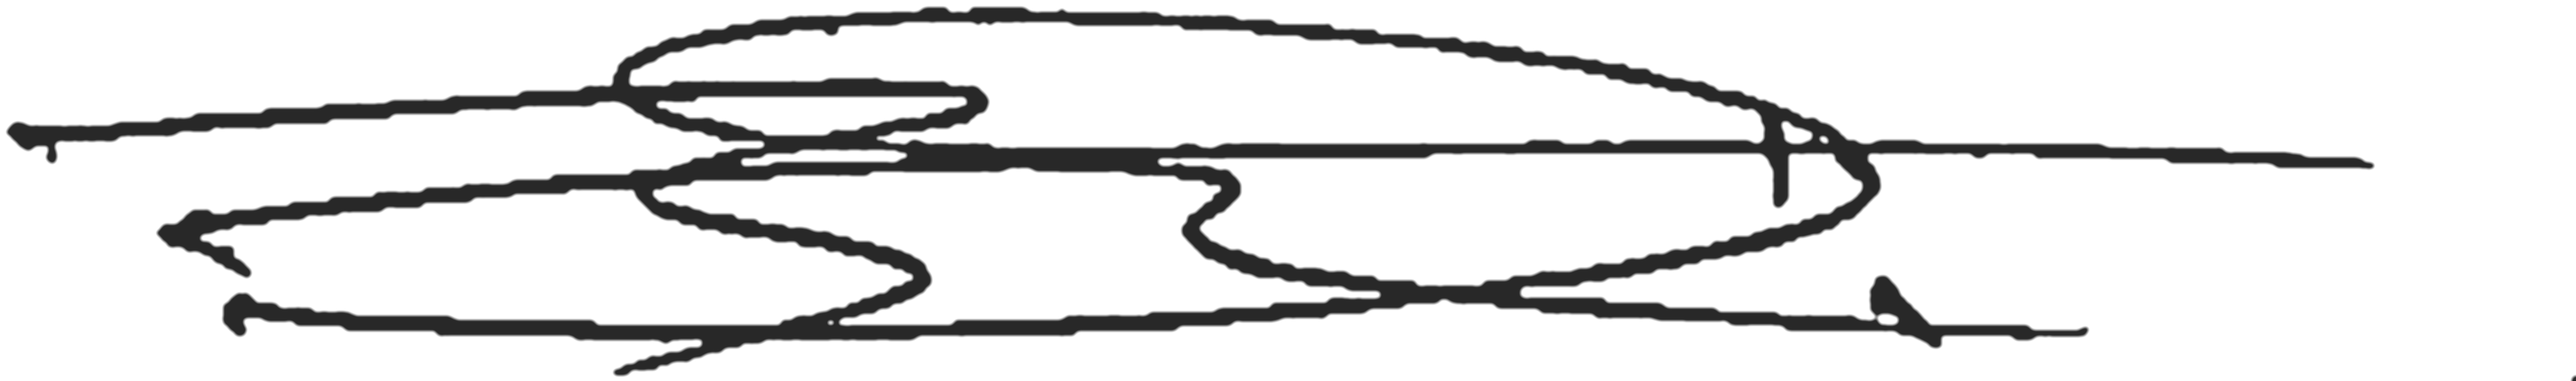
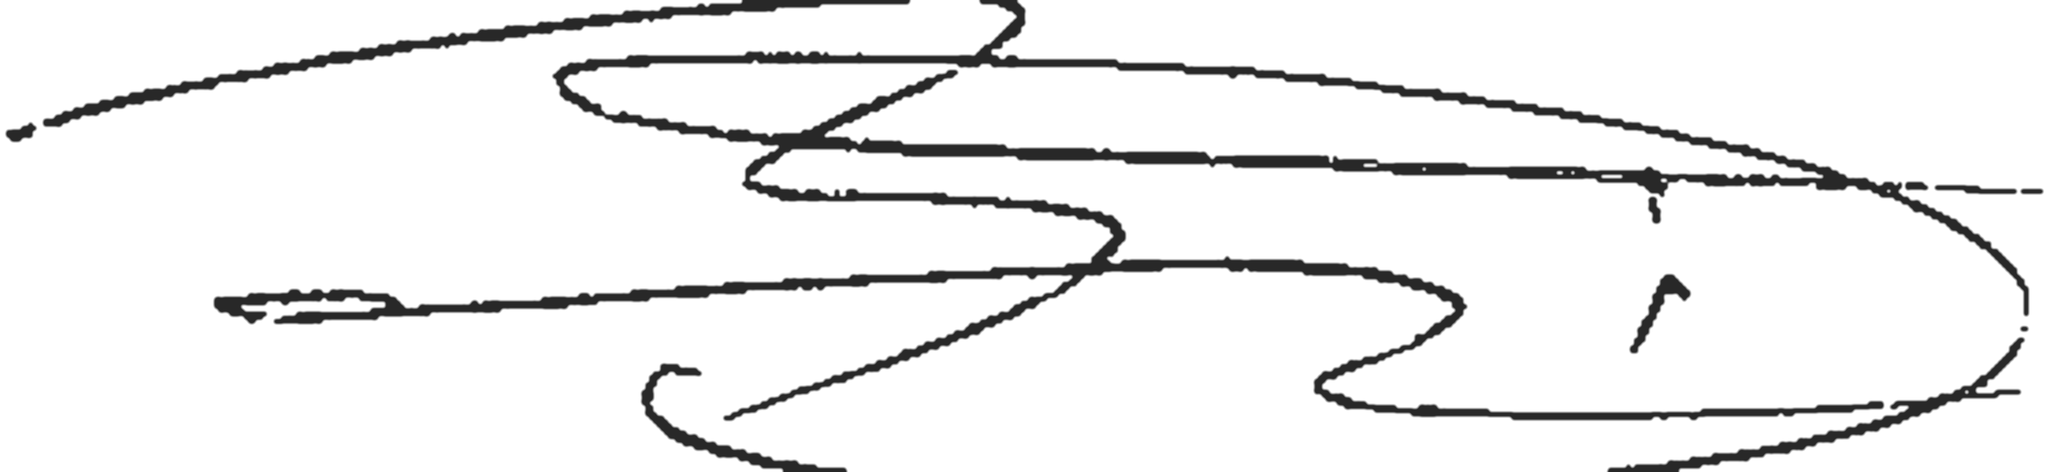
Use the August 26 wet-signature crop as the canonical stamp
Replace the photographed loops PNG with a charcoal-on-transparent crop of
the page-1 wet mark. Archive the photo stamp beside it. The originating
scan is discarded and is not in the repository. Already-filed PDFs are
not restamped; new generators pick up the same SIGNATURE_PATH.

Changed region(s): [[0.0, 0.0, 1.0, 1.0], [0.7765, 0.5793, 0.8386, 0.7317], [0.9939, 0.9756, 1.0, 1.0]]

diff --git a/internal/scripts/extract-signature-scan.py b/internal/scripts/extract-signature-scan.py
@@ -1,0 +1,148 @@
+#!/usr/bin/env python3
+"""Extract the page-1 wet signature into the canonical transparent PNG.
+
+Source is a tight crop of the handwritten mark only (no form, no fingerprint,
+no caption). The originating scan is discarded and is not in this repository.
+
+  1. thresholds ink
+  2. drops full-width form-rule slivers
+  3. upscales 8× (LANCZOS) so the PDF stamp downsamples instead of upsamples
+  4. closes tiny scan gaps, light erode, Gaussian-blur then re-threshold
+  5. writes dark-charcoal-on-transparent RGBA (not pure #000)
+
+Does not restamp any already-filed PDF.
+
+    python3 internal/scripts/extract-signature-scan.py
+"""
+from __future__ import annotations
+
+import shutil
+from pathlib import Path
+
+import numpy as np
+from PIL import Image, ImageFilter
+
+REPO = Path(__file__).resolve().parents[2]
+SRC_JPG = REPO / "internal/assets/signature/brendan-newanforbi-signature-source.jpg"
+OUT_PNG = REPO / "internal/assets/signature/brendan-newanforbi-signature.png"
+ARCHIVE_PNG = (
+    REPO / "internal/assets/signature/brendan-newanforbi-signature-v2-photo-loops.png"
+)
+ARCHIVE_SRC = (
+    REPO / "internal/assets/signature/brendan-newanforbi-signature-source-v2-photo.jpg"
+)
+
+INK_MAX = 175
+SCALE = 8
+CLOSE_SIZE = 3
+ERODE_SIZE = 3
+BLUR = 2.4
+CORE_T = 208
+ALPHA_FLOOR = 18
+INK_RGB = 40
+TRIM_PAD = 10
+RULE_WIDTH_FRAC = 0.55
+RULE_MAX_HEIGHT = 6
+
+
+def _archive_previous() -> None:
+    if OUT_PNG.is_file() and not ARCHIVE_PNG.is_file():
+        shutil.copy2(OUT_PNG, ARCHIVE_PNG)
+    src_v2 = REPO / "internal/assets/signature/brendan-newanforbi-signature-source.jpg"
+    # Archive the photographed source if this file is still that photo
+    # (short/wide JPEG from process-signature-photo.py). Skip if already the
+    # scan crop.
+    if src_v2.is_file() and not ARCHIVE_SRC.is_file():
+        im = Image.open(src_v2)
+        if im.size == (520, 214):
+            shutil.copy2(src_v2, ARCHIVE_SRC)
+
+
+def _drop_form_rules(ink: np.ndarray) -> np.ndarray:
+    """Drop short, near-full-width bars (printed form rules), keep handwriting."""
+    h, w = ink.shape
+    out = ink.copy()
+    min_w = int(w * RULE_WIDTH_FRAC)
+    visited = np.zeros_like(ink, dtype=bool)
+    ys, xs = np.where(ink)
+    for y, x in zip(ys, xs):
+        if visited[y, x]:
+            continue
+        # flood a 4-connected component
+        stack = [(y, x)]
+        cells = []
+        visited[y, x] = True
+        while stack:
+            cy, cx = stack.pop()
+            cells.append((cy, cx))
+            for ny, nx in ((cy - 1, cx), (cy + 1, cx), (cy, cx - 1), (cy, cx + 1)):
+                if 0 <= ny < h and 0 <= nx < w and ink[ny, nx] and not visited[ny, nx]:
+                    visited[ny, nx] = True
+                    stack.append((ny, nx))
+        ys_c = [p[0] for p in cells]
+        xs_c = [p[1] for p in cells]
+        height = max(ys_c) - min(ys_c) + 1
+        width = max(xs_c) - min(xs_c) + 1
+        if width >= min_w and height <= RULE_MAX_HEIGHT:
+            for cy, cx in cells:
+                out[cy, cx] = False
+    return out
+
+
+def _to_rgba(alpha_img: Image.Image) -> Image.Image:
+    a = np.array(alpha_img, dtype=np.float32)
+    solid = a >= CORE_T
+    fringe = np.clip((a - ALPHA_FLOOR) / (CORE_T - ALPHA_FLOOR), 0.0, 1.0)
+    alpha = np.where(solid, 1.0, fringe)
+    alpha_u8 = (alpha * 255.0).astype(np.uint8)
+    ys, xs = np.where(alpha_u8 > 8)
+    if ys.size == 0:
+        raise SystemExit("no ink after threshold")
+    y0 = max(0, int(ys.min()) - TRIM_PAD)
+    y1 = min(alpha_u8.shape[0], int(ys.max()) + TRIM_PAD + 1)
+    x0 = max(0, int(xs.min()) - TRIM_PAD)
+    x1 = min(alpha_u8.shape[1], int(xs.max()) + TRIM_PAD + 1)
+    alpha_u8 = alpha_u8[y0:y1, x0:x1]
+    rgba = np.zeros((alpha_u8.shape[0], alpha_u8.shape[1], 4), dtype=np.uint8)
+    rgba[..., 0] = INK_RGB
+    rgba[..., 1] = INK_RGB
+    rgba[..., 2] = INK_RGB
+    rgba[..., 3] = alpha_u8
+    return Image.fromarray(rgba, "RGBA")
+
+
+def main() -> None:
+    if not SRC_JPG.is_file():
+        raise SystemExit(f"Missing signature source crop: {SRC_JPG}")
+    _archive_previous()
+    gray = Image.open(SRC_JPG).convert("L")
+    g = np.array(gray, dtype=np.uint8)
+    ink = _drop_form_rules(g < INK_MAX)
+    ys, xs = np.where(ink)
+    if ys.size == 0:
+        raise SystemExit("no ink in source crop")
+    y0 = max(0, int(ys.min()) - 4)
+    y1 = min(ink.shape[0], int(ys.max()) + 5)
+    x0 = max(0, int(xs.min()) - 4)
+    x1 = min(ink.shape[1], int(xs.max()) + 5)
+    tight = (~ink[y0:y1, x0:x1]).astype(np.uint8) * 255
+    crop = Image.fromarray(tight, "L")
+    hi = crop.resize(
+        (crop.size[0] * SCALE, crop.size[1] * SCALE), Image.Resampling.LANCZOS
+    )
+    core = Image.fromarray(((np.array(hi) < 185).astype(np.uint8) * 255), "L")
+    closed = core.filter(ImageFilter.MaxFilter(CLOSE_SIZE)).filter(
+        ImageFilter.MinFilter(CLOSE_SIZE)
+    )
+    thinned = closed.filter(ImageFilter.MinFilter(ERODE_SIZE))
+    blurred = thinned.filter(ImageFilter.GaussianBlur(radius=BLUR))
+    rgba = _to_rgba(blurred)
+    rgba.save(OUT_PNG, optimize=True)
+    print(
+        f"wrote {OUT_PNG.relative_to(REPO)} {rgba.size[0]}×{rgba.size[1]}  "
+        f"aspect={rgba.size[1]/rgba.size[0]:.4f}  from crop {crop.size}"
+    )
+
+
+if __name__ == "__main__":
+    main()

diff --git a/internal/scripts/process-signature-photo.py b/internal/scripts/process-signature-photo.py
@@ -1,41 +1,28 @@
 #!/usr/bin/env python3
-"""Clean the photographed signature into the canonical transparent PNG.
+"""Historical: photographed loops mark → archived canonical PNG.
 
-Source is a low-resolution JPEG of the abstract-loops mark (lots of empty
-top canvas, JPEG ringing, thin aliased strokes). This script:
-
-  1. crops to the ink
-  2. upscales 12× (LANCZOS) so the PDF stamp downsamples instead of upsamples
-  3. closes tiny JPEG gaps, then a light erode so the stroke is slightly
-     thinner than a raw threshold of the photo
-  4. Gaussian-blurs then re-thresholds a solid core so 12× stair-steps round
-     off, keeping a short alpha fringe for PDF downsampling
-  5. writes dark-charcoal-on-transparent RGBA (not pure #000)
+Superseded. The live stamp is internal/assets/signature/
+brendan-newanforbi-signature.png, produced by extract-signature-scan.py.
+Running this script must not overwrite that file; it only rebuilds the
+archived photograph at *-v2-photo-loops.png.
 
 Does not restamp any already-filed PDF.
-
-    python3 internal/scripts/process-signature-photo.py
 """
 from __future__ import annotations
 
-import shutil
 from pathlib import Path
 
 import numpy as np
 from PIL import Image, ImageFilter
 
 REPO = Path(__file__).resolve().parents[2]
-SRC_JPG = REPO / "internal/assets/signature/brendan-newanforbi-signature-source.jpg"
-OUT_PNG = REPO / "internal/assets/signature/brendan-newanforbi-signature.png"
-ARCHIVE_PNG = (
-    REPO / "internal/assets/signature/brendan-newanforbi-signature-v1-abstract-loops.png"
+SRC_JPG = (
+    REPO / "internal/assets/signature/brendan-newanforbi-signature-source-v2-photo.jpg"
 )
-
-# Upload that produced this revision (copied into SRC_JPG on first run).
-UPLOAD = Path(
-    "/home/ubuntu/.cursor/projects/workspace/assets/"
-    "01a04771-bab9-7745-9d75-515118915e3c.jpg"
+OUT_PNG = (
+    REPO / "internal/assets/signature/brendan-newanforbi-signature-v2-photo-loops.png"
 )
+CANONICAL_PNG = REPO / "internal/assets/signature/brendan-newanforbi-signature.png"
 
 INK_MAX = 210  # grayscale; below this is treated as ink
 CROP_PAD = 6
@@ -47,20 +34,6 @@ CORE_T = 212  # blur luminance at/above this becomes solid ink
 ALPHA_FLOOR = 22  # below this, treat as background
 INK_RGB = 40  # charcoal, not pure black — dials down visual weight
 TRIM_PAD = 12
-
-
-def _ensure_source() -> None:
-    SRC_JPG.parent.mkdir(parents=True, exist_ok=True)
-    if SRC_JPG.is_file():
-        return
-    if not UPLOAD.is_file():
-        raise SystemExit(f"Missing signature source: {SRC_JPG} and {UPLOAD}")
-    shutil.copy2(UPLOAD, SRC_JPG)
-
-
-def _archive_previous() -> None:
-    if OUT_PNG.is_file() and not ARCHIVE_PNG.is_file():
-        shutil.copy2(OUT_PNG, ARCHIVE_PNG)
 
 
 def _crop_ink(gray: Image.Image) -> Image.Image:
@@ -106,8 +79,10 @@ def _to_rgba(alpha_img: Image.Image) -> Image.Image:
 
 
 def main() -> None:
-    _ensure_source()
-    _archive_previous()
+    if OUT_PNG.resolve() == CANONICAL_PNG.resolve():
+        raise SystemExit("refusing to overwrite the canonical scan stamp")
+    if not SRC_JPG.is_file():
+        raise SystemExit(f"Missing archived photo source: {SRC_JPG}")
     gray = Image.open(SRC_JPG).convert("L")
     crop = _crop_ink(gray)
     hi = crop.resize(

diff --git a/internal/scripts/signature_stamp.py b/internal/scripts/signature_stamp.py
@@ -1,11 +1,12 @@
 # Portfolio universal signature: brendan-newanforbi-signature.png
-# Photographed loops mark, cropped/upscaled/smoothed by
-# process-signature-photo.py (charcoal on transparent). Use this for all
-# generated filings that need a signature affixed rather than a typed
-# name. Supersedes the CIV-100 4b extract merged in #566. Do not use the
-# older cropped pen asset under internal/scripts/assets/. Prior loops
-# stamps are archived next to this file as *-v1-abstract-loops.png and
-# *-4b-civ100.png.
+# Wet-ink loops mark cropped from an August 26, 2026 page-1 scan, then
+# upscaled/smoothed by extract-signature-scan.py (charcoal on transparent).
+# Use this for all generated filings that need a signature affixed rather
+# than a typed name. Supersedes the photographed loops mark and the CIV-100
+# 4b extract. Do not use the older cropped pen asset under
+# internal/scripts/assets/. Prior stamps are archived next to this file as
+# *-v2-photo-loops.png, *-v1-abstract-loops.png, and *-4b-civ100.png.
+# The originating scan is not stored.
 import struct
 from pathlib import Path
 

diff --git a/internal/scripts/extract-signature-4b.py b/internal/scripts/extract-signature-4b.py
@@ -1,9 +1,9 @@
 #!/usr/bin/env python3
 """Extract signature 4b (CIV-100 p.2, item 7, 15 June 2026) to an archive PNG.
 
-This is historical. The canonical stamp is the photographed loops mark at
+This is historical. The canonical stamp is the August 26, 2026 scan crop at
 internal/assets/signature/brendan-newanforbi-signature.png, produced by
-process-signature-photo.py. Running this script must not overwrite that file.
+extract-signature-scan.py. Running this script must not overwrite that file.
 
 Source: matter-12/014a CIV100 Request for Entry of Default or Default
 Judgment.pdf, page 2, native 1-bit scan (1701×2215). The mark sits on
